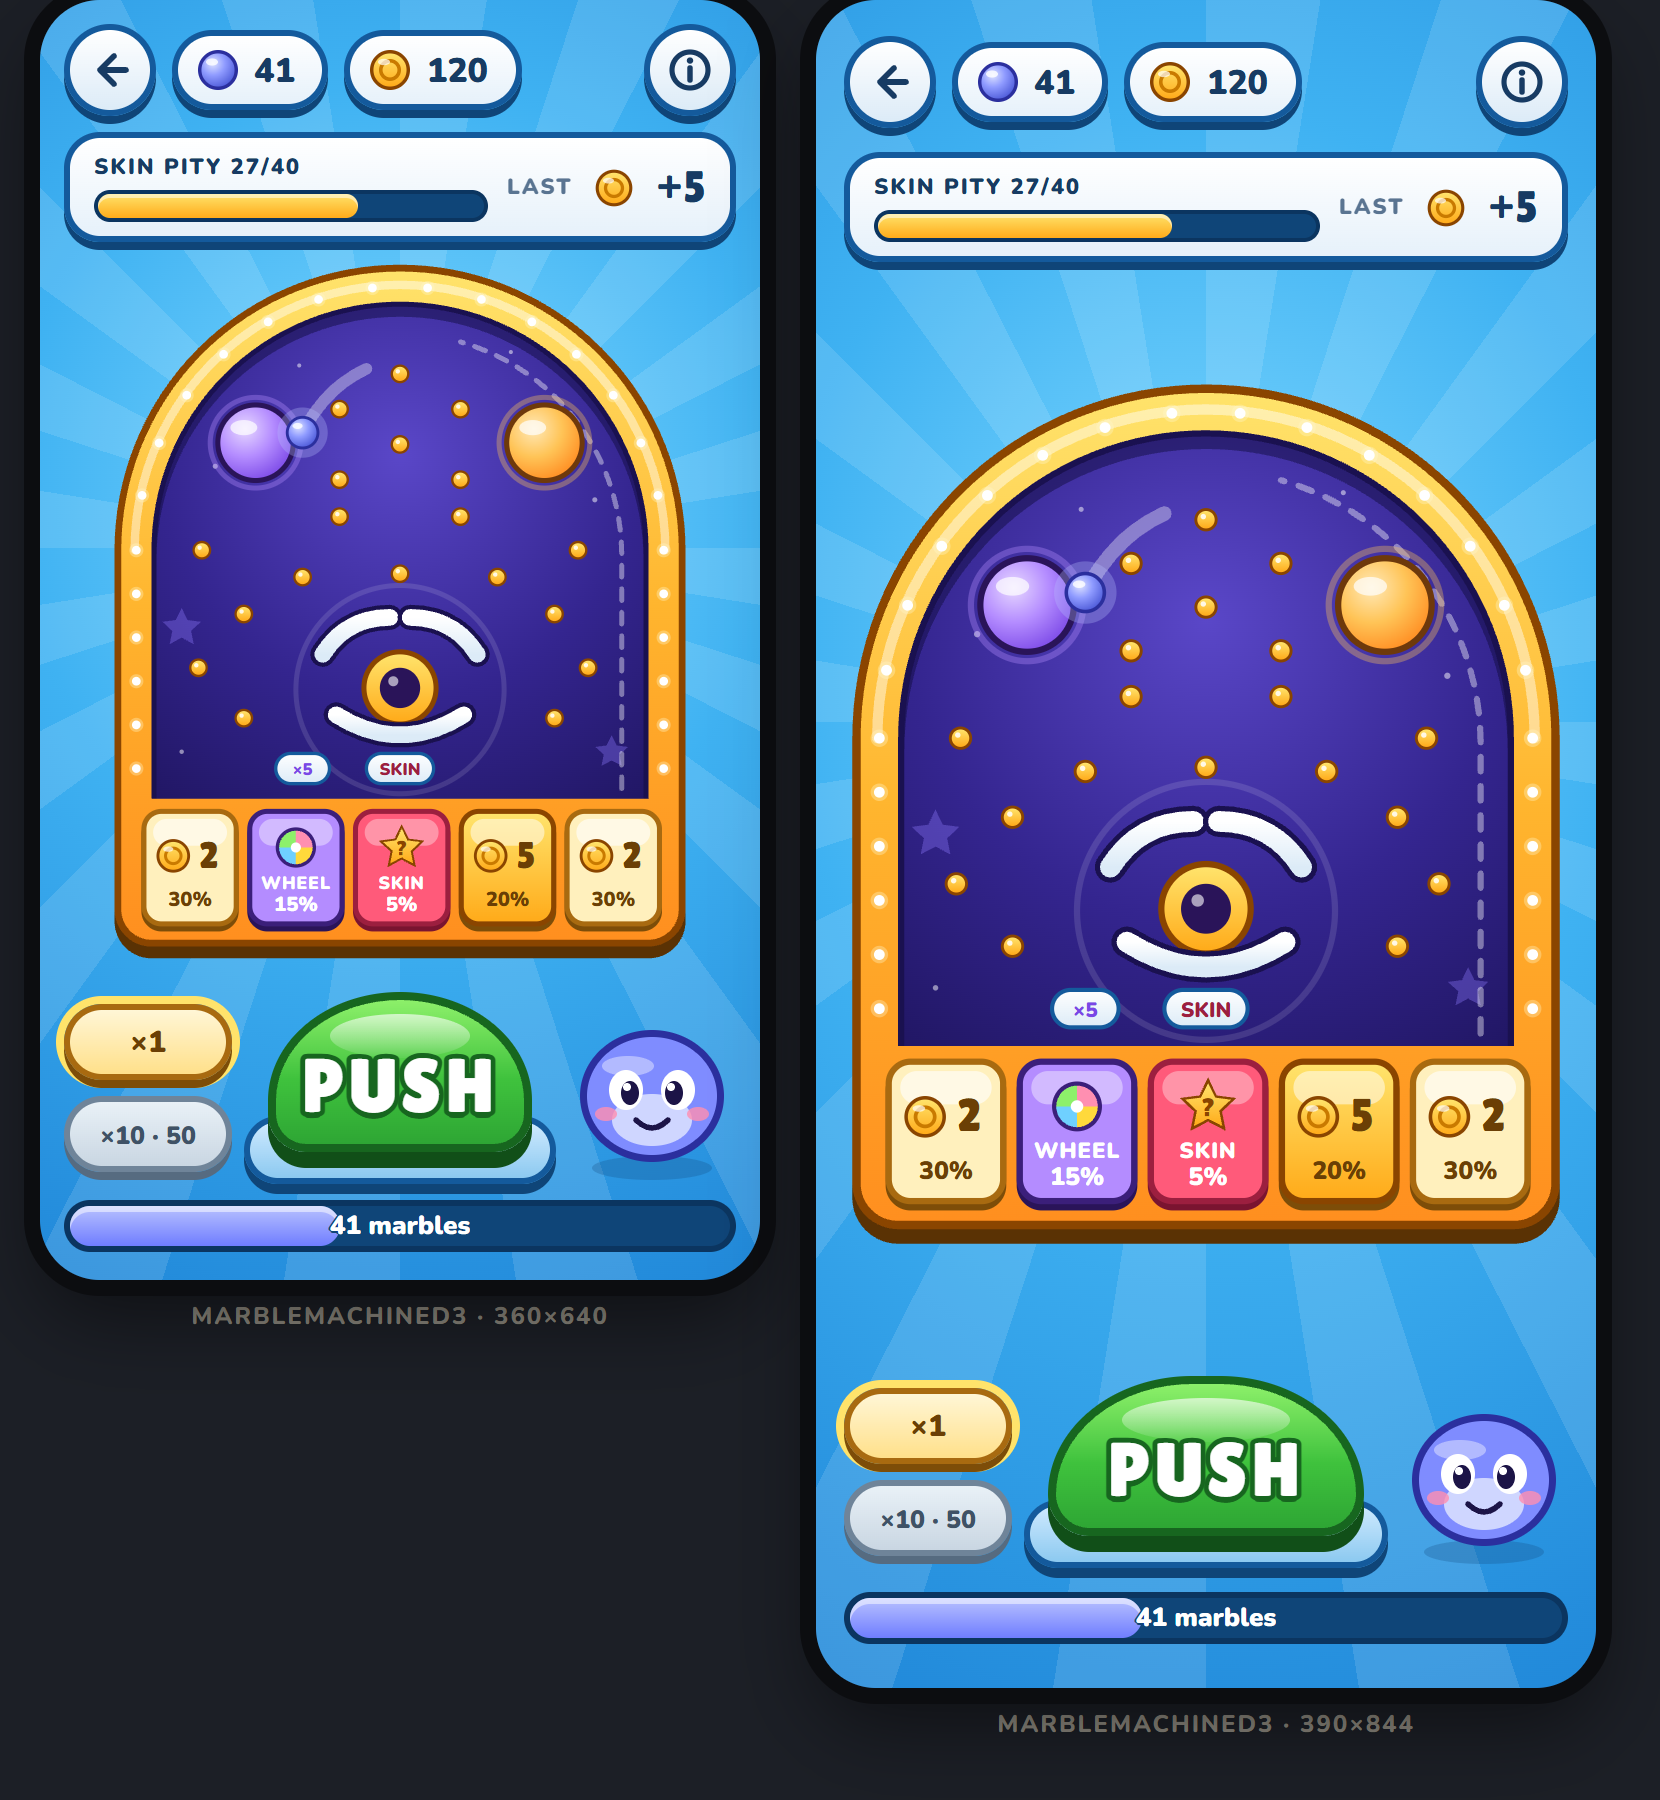
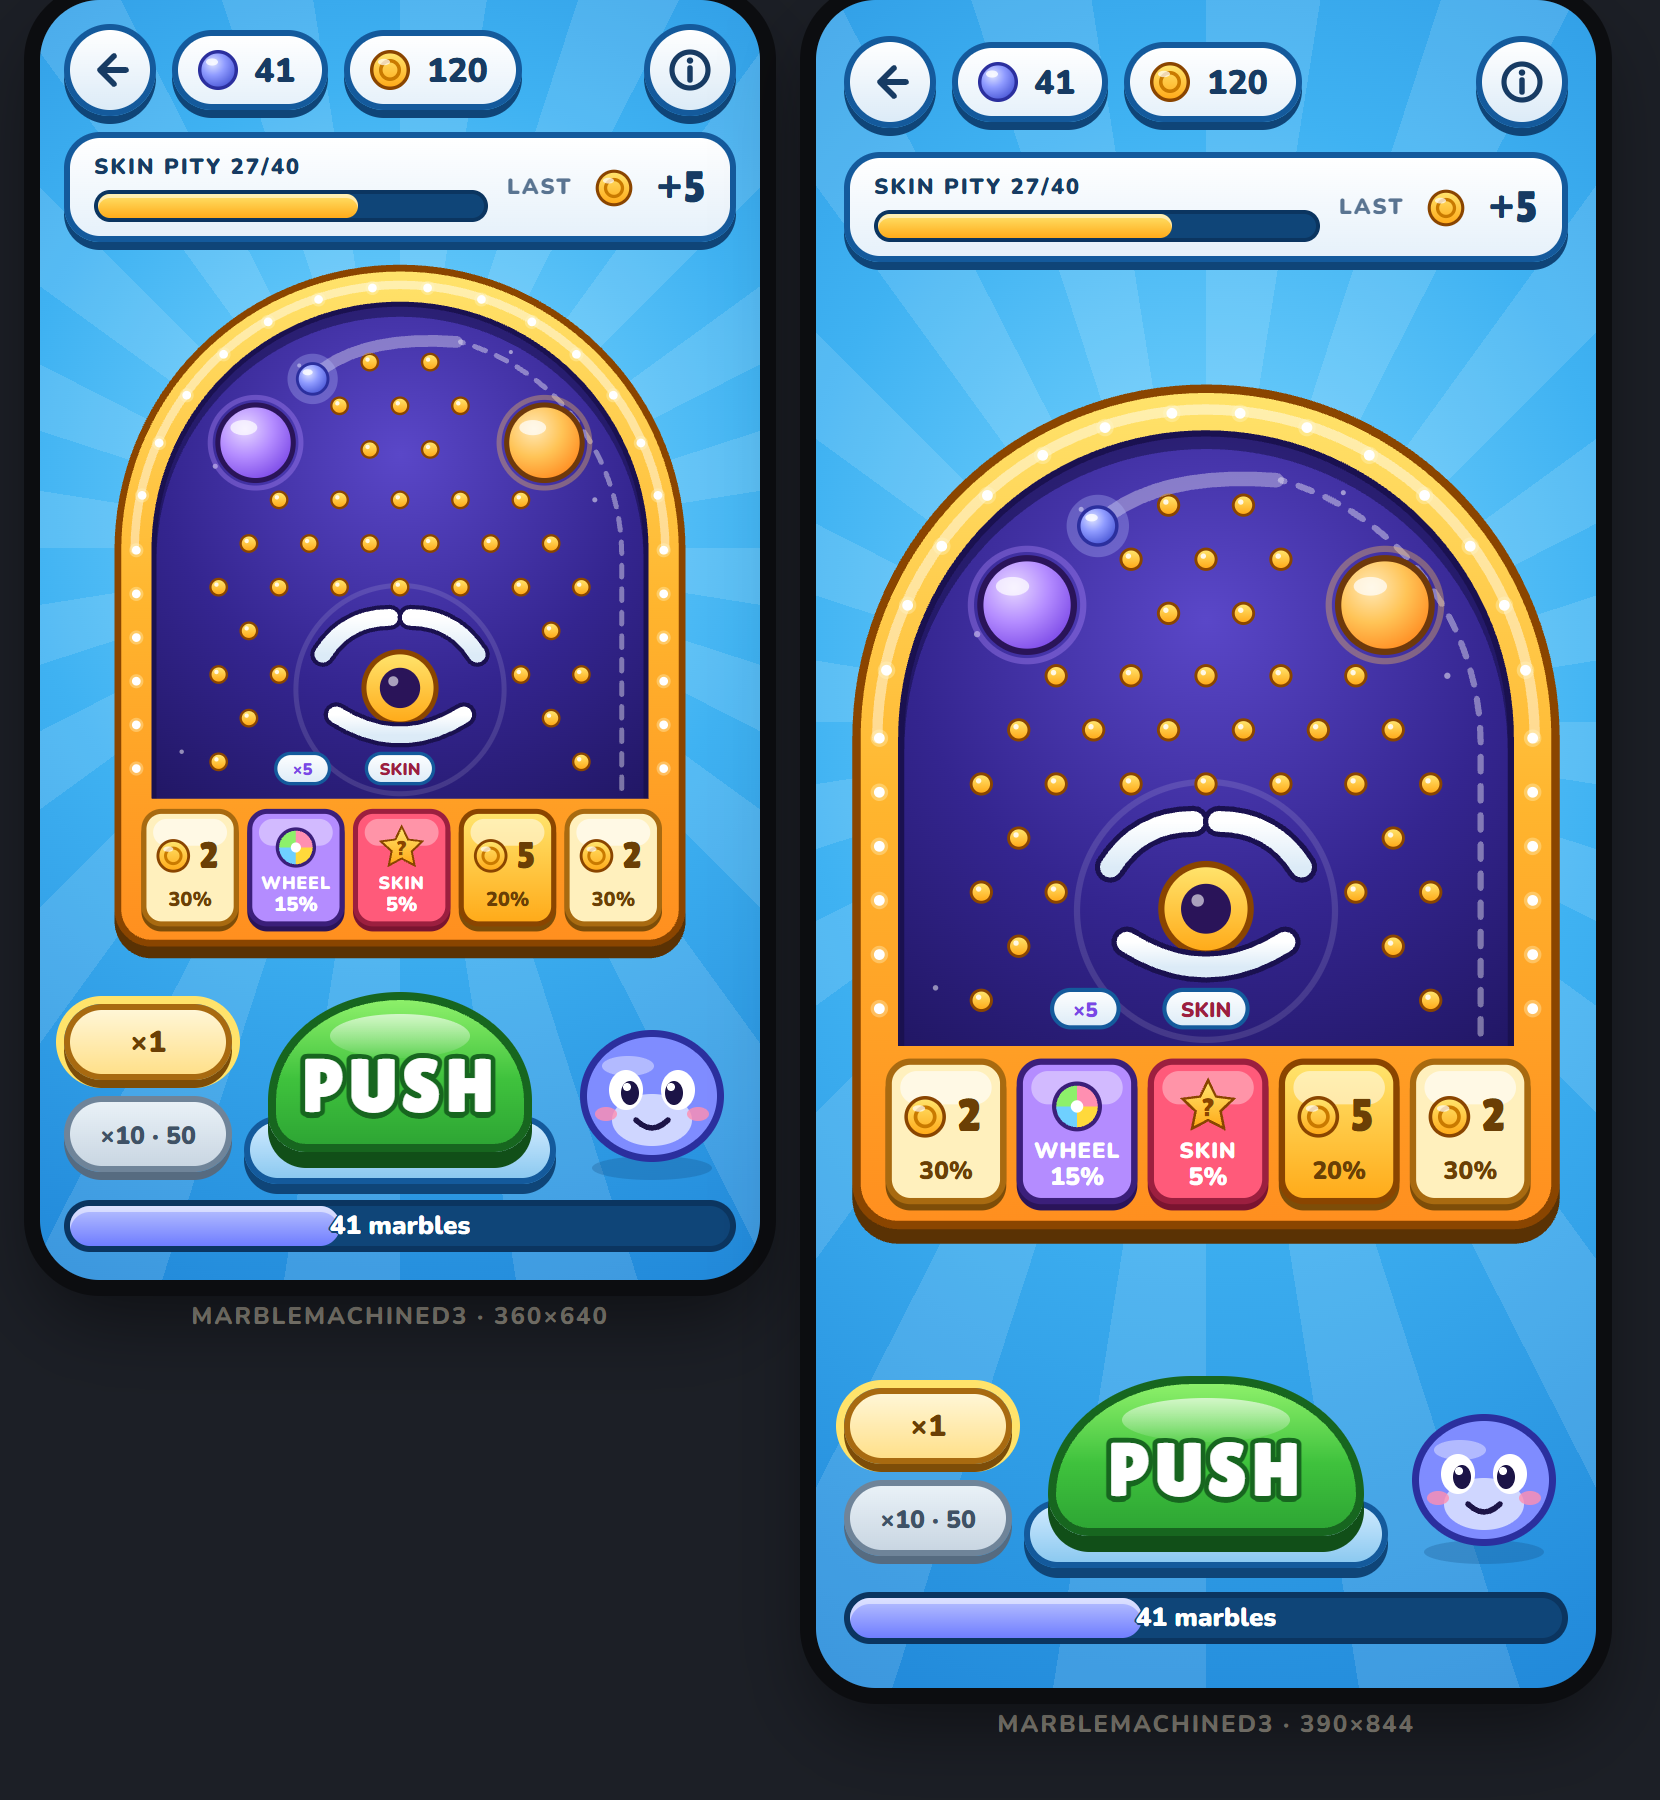
docs(design): marble machine D3 mockup - pegs in a mirrored staggered grid

diff --git a/docs/design/mockups/d3/marble.html b/docs/design/mockups/d3/marble.html
@@ -116,7 +116,7 @@ h2 { font-family: Lilita, sans-serif; font-weight: 400; font-size: 22px; margin:
         <path d="M25 318V170A145 145 0 0 1 315 170V318z" fill="url(#gField)"/>
         <path d="M25 176V170A145 145 0 0 1 315 170v6A145 145 0 0 0 25 176z" fill="#0E0838" opacity=".45"/>
         <g fill="#fff" opacity=".5"><circle cx="60" cy="120" r="1.500"/><circle cx="286" cy="140" r="1.500"/><circle cx="110" cy="60" r="1.200"/><circle cx="236" cy="52" r="1.200"/><circle cx="40" cy="290" r="1.300"/><circle cx="216" cy="230" r="1.200"/><circle cx="124" cy="226" r="1.200"/></g>
-        <g fill="#8F7BFF" opacity=".35"><use href="#star" transform="translate(40 216) scale(1.300)"/><use href="#star" transform="translate(296 290) scale(1.100)"/></g>
+        
         <!-- launch lane -->
         <path d="M302 312V172A132 132 0 0 0 206 46" fill="none" stroke="#fff" stroke-opacity=".4" stroke-width="3" stroke-dasharray="7 7" stroke-linecap="round"/>
         <!-- ring guides around the catcher -->
@@ -124,23 +124,28 @@ h2 { font-family: Lilita, sans-serif; font-weight: 400; font-size: 22px; margin:
         <!-- bumpers -->
         <g transform="translate(84 106)"><circle r="24" fill="#2A1459"/><circle r="21" fill="url(#gBumpP)"/><ellipse cx="-7" cy="-9" rx="8" ry="4.500" fill="#fff" opacity=".7"/><circle r="27" fill="none" stroke="#B48CFF" stroke-opacity=".35" stroke-width="3"/></g>
         <g transform="translate(256 106)"><circle r="24" fill="#6E390B"/><circle r="21" fill="url(#gBumpO)"/><ellipse cx="-7" cy="-9" rx="8" ry="4.500" fill="#fff" opacity=".7"/><circle r="27" fill="none" stroke="#FFC457" stroke-opacity=".35" stroke-width="3"/></g>
-        <!-- pegs -->
+        <!-- pegs: staggered grid, 36 px columns, 26 px rows, mirrored about x = 170; rows open up around the bumpers and the catcher -->
         <g>
-          <use href="#peg" x="170" y="65"/><use href="#peg" x="134" y="86"/><use href="#peg" x="206" y="86"/><use href="#peg" x="170" y="107"/>
-          <use href="#peg" x="134" y="128"/><use href="#peg" x="206" y="128"/><use href="#peg" x="134" y="150"/><use href="#peg" x="206" y="150"/>
-          <use href="#peg" x="52" y="170"/><use href="#peg" x="276" y="170"/><use href="#peg" x="112" y="186"/><use href="#peg" x="170" y="184"/><use href="#peg" x="228" y="186"/>
-          <use href="#peg" x="77" y="208"/><use href="#peg" x="262" y="208"/><use href="#peg" x="50" y="240"/><use href="#peg" x="282" y="240"/>
-          <use href="#peg" x="77" y="270"/><use href="#peg" x="262" y="270"/>
+          <use href="#peg" x="152" y="58"/><use href="#peg" x="188" y="58"/>
+          <use href="#peg" x="134" y="84"/><use href="#peg" x="170" y="84"/><use href="#peg" x="206" y="84"/>
+          <use href="#peg" x="152" y="110"/><use href="#peg" x="188" y="110"/>
+          <use href="#peg" x="98" y="140"/><use href="#peg" x="134" y="140"/><use href="#peg" x="170" y="140"/><use href="#peg" x="206" y="140"/><use href="#peg" x="242" y="140"/>
+          <use href="#peg" x="80" y="166"/><use href="#peg" x="116" y="166"/><use href="#peg" x="152" y="166"/><use href="#peg" x="188" y="166"/><use href="#peg" x="224" y="166"/><use href="#peg" x="260" y="166"/>
+          <use href="#peg" x="62" y="192"/><use href="#peg" x="98" y="192"/><use href="#peg" x="134" y="192"/><use href="#peg" x="170" y="192"/><use href="#peg" x="206" y="192"/><use href="#peg" x="242" y="192"/><use href="#peg" x="278" y="192"/>
+          <use href="#peg" x="80" y="218"/><use href="#peg" x="260" y="218"/>
+          <use href="#peg" x="62" y="244"/><use href="#peg" x="98" y="244"/><use href="#peg" x="242" y="244"/><use href="#peg" x="278" y="244"/>
+          <use href="#peg" x="80" y="270"/><use href="#peg" x="260" y="270"/>
+          <use href="#peg" x="62" y="296"/><use href="#peg" x="278" y="296"/>
         </g>
         <!-- catcher: two flippers, jackpot hole, cup -->
         <path d="M124 232q14-22 40-22" fill="none" stroke="#1A1150" stroke-width="15" stroke-linecap="round"/><path d="M124 232q14-22 40-22" fill="none" stroke="url(#gLight)" stroke-width="10" stroke-linecap="round"/>
         <path d="M216 232q-14-22-40-22" fill="none" stroke="#1A1150" stroke-width="15" stroke-linecap="round"/><path d="M216 232q-14-22-40-22" fill="none" stroke="url(#gLight)" stroke-width="10" stroke-linecap="round"/>
         <circle cx="170" cy="252" r="23" fill="#8A4500"/><circle cx="170" cy="252" r="20" fill="url(#gGold)"/><circle cx="170" cy="252" r="12" fill="#2A1459"/><circle cx="166" cy="248" r="3" fill="#fff" opacity=".6"/>
         <path d="M132 268q38 24 76 0" fill="none" stroke="#1A1150" stroke-width="15" stroke-linecap="round"/><path d="M132 268q38 24 76 0" fill="none" stroke="url(#gLight)" stroke-width="10" stroke-linecap="round"/>
-        <!-- marble in flight -->
-        <path d="M150 62q-22 10-36 34" fill="none" stroke="#fff" stroke-opacity=".35" stroke-width="7" stroke-linecap="round"/>
-        <circle cx="112" cy="100" r="15" fill="#B9C2FF" opacity=".3"/>
-        <use href="#orb" x="112" y="100"/>
+        <!-- marble in flight, coming off the launch lane -->
+        <path d="M204 46Q152 42 124 62" fill="none" stroke="#fff" stroke-opacity=".35" stroke-width="7" stroke-linecap="round"/>
+        <circle cx="118" cy="68" r="15" fill="#B9C2FF" opacity=".3"/>
+        <use href="#orb" x="118" y="68"/>
         <!-- gate tags -->
         <g font-family="Nunito" font-weight="900" font-size="10" text-anchor="middle">
           <rect x="96" y="291" width="32" height="18" rx="9" fill="url(#gLight)" stroke="#145A9C" stroke-width="2"/><text x="112" y="304" fill="#7A47E6">×5</text>
